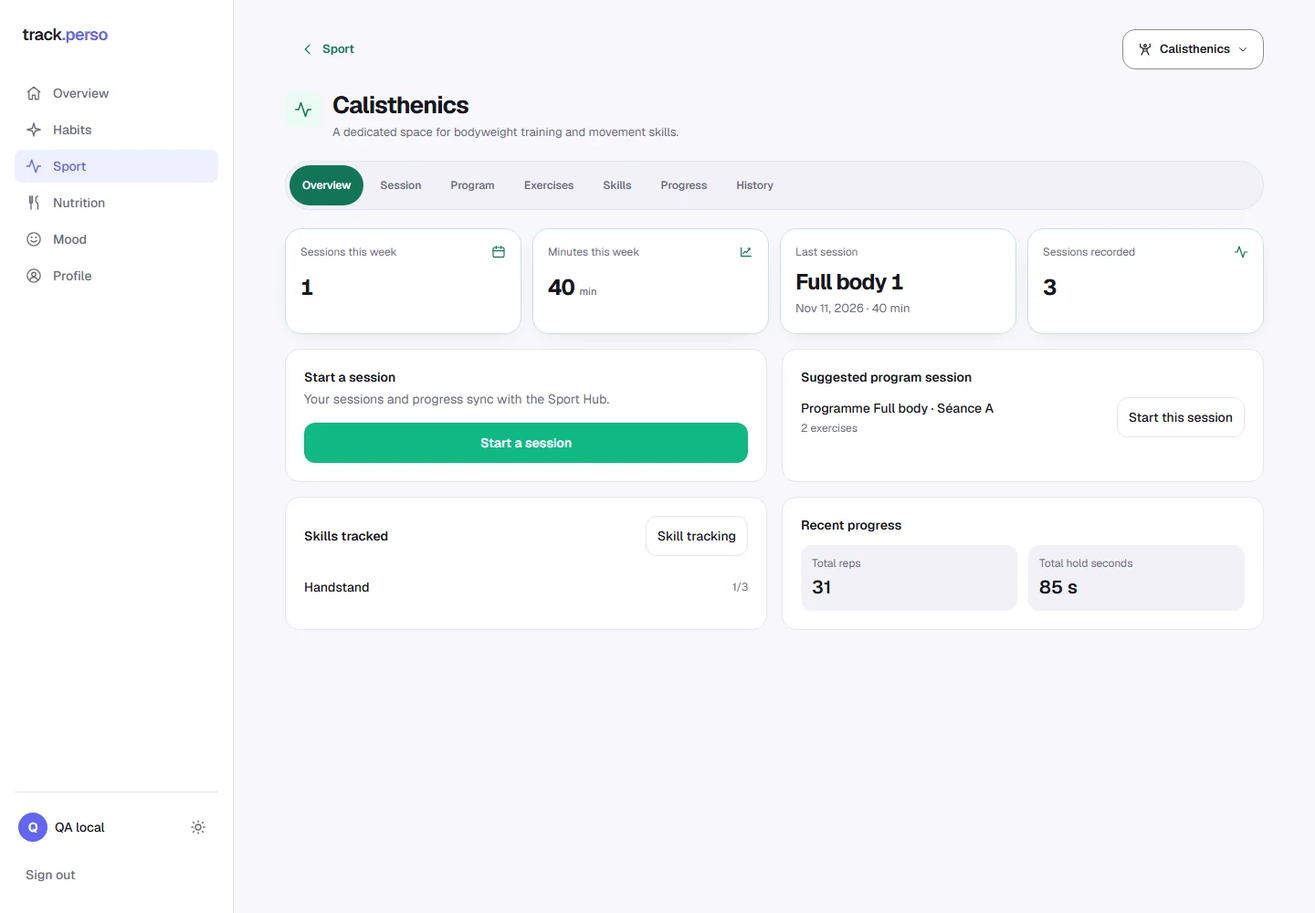
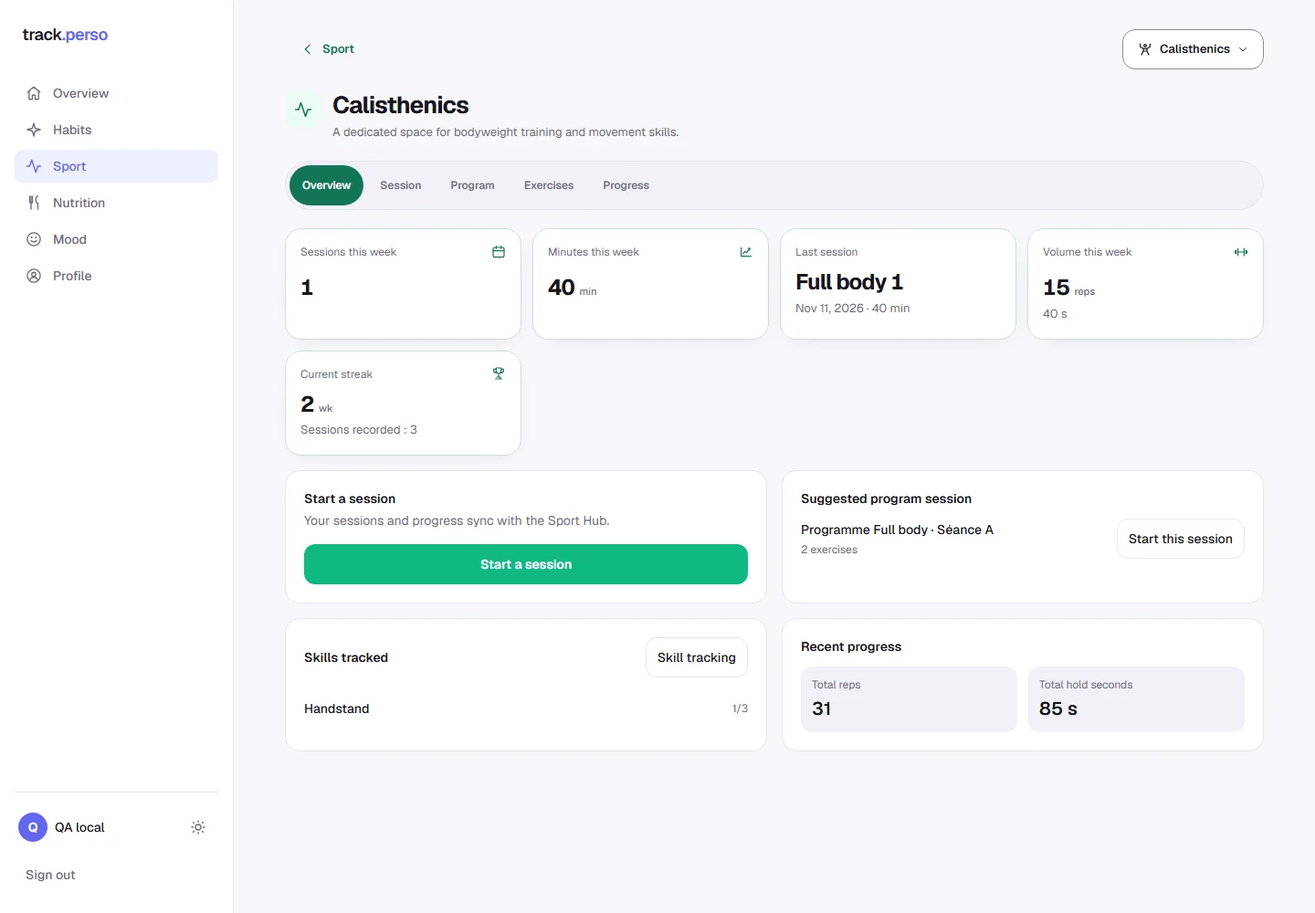
feat: rework Calisthenics around five sections
Calisthenics now mirrors Running: Vue d'ensemble / Séance / Programme /
Exercices / Progression. The history joins the session tab and the
skills join progress, instead of carrying seven tabs on a phone.

The overview gains this week's volume and the streak of consecutive
weeks with a session; repetitions and hold seconds stay separate
measures and are never added together. The exercise library is grouped
by category with a count per group and headings tied to their section.

Covers the new figures with unit tests, including a quiet current week
that keeps the streak earned up to last week.

diff --git a/src/components/sport/calisthenics-workspace.tsx b/src/components/sport/calisthenics-workspace.tsx
@@ -5,7 +5,7 @@ import { SportButton, SportEmptyState, SportLink } from "@/components/sport/ui/s
 import { SportModuleShell, SportModuleTabs, SportStatusMessage } from "@/components/sport/ui/sport-module-shell";
 import { SportStatCard } from "@/components/sport/ui/sport-stat-card";
 
-import { useEffect, useMemo, useState, useTransition } from "react";
+import { useEffect, useId, useMemo, useState, useTransition } from "react";
 import { useRouter } from "next/navigation";
 import { useLanguage, useT } from "@/components/language-provider";
 import { WeeklyBarChart } from "@/components/charts/weekly-bar-chart";
@@ -32,7 +32,7 @@ import type {
   CalisthenicsSet,
 } from "@/types/database";
 
-type Section = "overview" | "session" | "program" | "exercises" | "skills" | "progress" | "history";
+type Section = "overview" | "session" | "program" | "exercises" | "progress";
 type DraftSet = { key: string; reps: number | null; holdSeconds: number | null; mode: "reps" | "hold"; assistanceKg: number | null; addedWeightKg: number | null; variation: string; notes: string };
 type DraftItem = { key: string; exerciseId: string; sets: DraftSet[] };
 type ProgramForm = {
@@ -55,7 +55,7 @@ type ExerciseForm = {
 };
 
 const DRAFT_KEY = "track-perso:calisthenics-session-v1";
-const SECTIONS: Section[] = ["overview", "session", "program", "exercises", "skills", "progress", "history"];
+const SECTIONS: Section[] = ["overview", "session", "program", "exercises", "progress"];
 const CATEGORIES: Category[] = ["push", "pull", "legs", "core", "skills", "mobility"];
 const LEVELS: Level[] = ["beginner", "intermediate", "advanced"];
 const MEASUREMENTS: Measurement[] = ["reps", "hold", "mixed"];
@@ -99,7 +99,7 @@ export function CalisthenicsWorkspace({ data, initialSessionId }: { data: Calist
   const t = useT();
   const { language } = useLanguage();
   const router = useRouter();
-  const [section, setSection] = useState<Section>(initialSessionId ? "history" : "overview");
+  const [section, setSection] = useState<Section>(initialSessionId ? "session" : "overview");
   const [busy, startTransition] = useTransition();
   const [feedback, setFeedback] = useState("");
   const [draftReady, setDraftReady] = useState(false);
@@ -125,6 +125,7 @@ export function CalisthenicsWorkspace({ data, initialSessionId }: { data: Calist
   const [timerEnd, setTimerEnd] = useState<number | null>(null);
 
   const c = (key: string) => t(`sport.calisthenicsUi.${key}`);
+  const sectionId = useId();
   const exercisesById = useMemo(() => new Map(data.exercises.map((exercise) => [exercise.id, exercise])), [data.exercises]);
   const setsByWorkout = useMemo(() => {
     const grouped = new Map<string, CalisthenicsSet[]>();
@@ -336,7 +337,8 @@ export function CalisthenicsWorkspace({ data, initialSessionId }: { data: Calist
         <SportStatCard label={c("weekSessions")} value={overviewStats.sessionsThisWeek} icon="calendar" />
         <SportStatCard label={c("weekMinutes")} value={overviewStats.minutesThisWeek} unit={c("minutesLabel")} icon="stats" />
         <SportStatCard label={c("lastSession")} value={recentWorkout ? recentWorkout.activity : "—"} detail={recentWorkout ? `${formatDate(recentWorkout.workout_date, language)} · ${recentWorkout.duration_minutes} ${c("minutesLabel")}` : c("noLastSession")} />
-        <SportStatCard label={c("totalSessions")} value={data.workouts.length} icon="activity" />
+        <SportStatCard label={c("weekVolume")} value={overviewStats.weekVolume.reps} unit={c("repsLabel")} detail={overviewStats.weekVolume.holdSeconds > 0 ? `${overviewStats.weekVolume.holdSeconds} ${c("secondsLabel")}` : undefined} icon="strength" />
+        <SportStatCard label={c("weekStreak")} value={overviewStats.weekStreak} unit={c("weeksLabel")} detail={c("totalSessions") + " : " + data.workouts.length} icon="trophy" />
       </div>}
       <div className="grid gap-4 lg:grid-cols-2">
         <Card className="flex flex-col">
@@ -349,7 +351,7 @@ export function CalisthenicsWorkspace({ data, initialSessionId }: { data: Calist
         </Card>
       </div>
       <div className="grid gap-4 lg:grid-cols-2">
-        <Card><div className="flex items-center justify-between gap-3"><h2 className="text-sm font-semibold">{c("activeSkills")}</h2><button className={secondaryButtonClass} type="button" onClick={() => setSection("skills")}>{c("skillsTitle")}</button></div>
+        <Card><div className="flex items-center justify-between gap-3"><h2 className="text-sm font-semibold">{c("activeSkills")}</h2><button className={secondaryButtonClass} type="button" onClick={() => setSection("progress")}>{c("skillsTitle")}</button></div>
           {data.skills.length ? <ul className="mt-3 divide-y divide-border">{data.skills.slice(0, 4).map((skill) => <li key={skill.id} className="flex items-center justify-between gap-3 py-3"><span className="truncate text-sm font-medium">{skill.name}</span><span className="text-xs text-foreground-muted">{skill.current_step}/{skill.target_step}</span></li>)}</ul> : <p className="mt-3 text-sm text-foreground-muted">{c("noSkills")}</p>}</Card>
         <Card><h2 className="text-sm font-semibold">{c("recentProgress")}</h2><div className="mt-3 grid grid-cols-2 gap-3"><div className="rounded-xl bg-surface-muted p-3"><p className="text-xs text-foreground-muted">{c("totalReps")}</p><p className="mt-1 text-xl font-semibold">{recentReps}</p></div><div className="rounded-xl bg-surface-muted p-3"><p className="text-xs text-foreground-muted">{c("totalHold")}</p><p className="mt-1 text-xl font-semibold">{recentHold} {c("secondsLabel")}</p></div></div></Card>
       </div>
@@ -398,7 +400,7 @@ export function CalisthenicsWorkspace({ data, initialSessionId }: { data: Calist
         <div className="grid gap-3 sm:grid-cols-3"><Field label={c("search")}><input className={controlClass} value={exerciseSearch} onChange={(event) => setExerciseSearch(event.target.value)} /></Field><Field label={c("category")}><select className={controlClass} value={categoryFilter} onChange={(event) => setCategoryFilter(event.target.value)}><option value="all">{c("all")}</option>{CATEGORIES.map((item) => <option key={item} value={item}>{c(`categories.${item}`)}</option>)}</select></Field><Field label={c("level")}><select className={controlClass} value={levelFilter} onChange={(event) => setLevelFilter(event.target.value)}><option value="all">{c("all")}</option>{LEVELS.map((item) => <option key={item} value={item}>{c(`levels.${item}`)}</option>)}</select></Field></div>
       </Card>
       {exerciseForm && <Card><form className="space-y-4" onSubmit={(event) => { event.preventDefault(); runMutation(() => saveCalisthenicsExercise({ ...exerciseForm, descriptions: exerciseForm.descriptions, instructions: exerciseForm.instructions }), () => setExerciseForm(null)); }}><div className="flex items-center justify-between gap-3"><h3 className="text-base font-semibold">{exerciseForm.id ? c("editExercise") : c("newExercise")}</h3><button type="button" className={secondaryButtonClass} onClick={() => setExerciseForm(null)}>{c("remove")}</button></div><div className="grid gap-3 sm:grid-cols-3">{(["fr", "en", "ar"] as const).map((lang) => <Field key={lang} label={c(`name${lang.toUpperCase()}`)}><input required maxLength={80} className={controlClass} value={exerciseForm.names[lang]} onChange={(event) => setExerciseForm((form) => form ? ({ ...form, names: { ...form.names, [lang]: event.target.value } }) : null)} /></Field>)}</div><div className="grid gap-3 sm:grid-cols-3">{(["fr", "en", "ar"] as const).map((lang) => <Field key={lang} label={c(`description${lang.toUpperCase()}`)}><textarea maxLength={500} className={`${controlClass} min-h-20 py-3`} value={exerciseForm.descriptions[lang]} onChange={(event) => setExerciseForm((form) => form ? ({ ...form, descriptions: { ...form.descriptions, [lang]: event.target.value } }) : null)} /></Field>)}</div><div className="grid gap-3 sm:grid-cols-3">{(["fr", "en", "ar"] as const).map((lang) => <Field key={lang} label={c(`instructions${lang.toUpperCase()}`)}><textarea maxLength={500} className={`${controlClass} min-h-20 py-3`} value={exerciseForm.instructions[lang]} onChange={(event) => setExerciseForm((form) => form ? ({ ...form, instructions: { ...form.instructions, [lang]: event.target.value } }) : null)} /></Field>)}</div><div className="grid gap-3 sm:grid-cols-2 lg:grid-cols-4"><Field label={c("category")}><select className={controlClass} value={exerciseForm.category} onChange={(event) => setExerciseForm((form) => form ? ({ ...form, category: event.target.value as Category }) : null)}>{CATEGORIES.map((item) => <option key={item} value={item}>{c(`categories.${item}`)}</option>)}</select></Field><Field label={c("level")}><select className={controlClass} value={exerciseForm.level} onChange={(event) => setExerciseForm((form) => form ? ({ ...form, level: event.target.value as Level }) : null)}>{LEVELS.map((item) => <option key={item} value={item}>{c(`levels.${item}`)}</option>)}</select></Field><Field label={c("measurement")}><select className={controlClass} value={exerciseForm.measurementType} onChange={(event) => setExerciseForm((form) => form ? ({ ...form, measurementType: event.target.value as Measurement }) : null)}>{MEASUREMENTS.map((item) => <option key={item} value={item}>{c(`measurements.${item}`)}</option>)}</select></Field><Field label={c("primaryMuscle")}><input required maxLength={50} className={controlClass} value={exerciseForm.primaryMuscle} onChange={(event) => setExerciseForm((form) => form ? ({ ...form, primaryMuscle: event.target.value }) : null)} /></Field></div><button type="submit" className={buttonClass} disabled={busy}>{c("saveExercise")}</button></form></Card>}
-      {filteredExercises.length ? <div className="grid gap-3 sm:grid-cols-2 xl:grid-cols-3">{filteredExercises.map((exercise) => <Card key={exercise.id} className="flex flex-col"><div className="flex items-start justify-between gap-2"><div className="min-w-0"><div className="flex items-center gap-2"><h3 className="min-w-0 truncate text-sm font-semibold">{localeName(exercise, language)}</h3><ExerciseGuideButton name={localeName(exercise, language)} discipline="calisthenics" exerciseId={exercise.id} /></div><p className="mt-1 text-xs text-foreground-muted">{c(`categories.${exercise.category}`)} · {c(`levels.${exercise.level}`)} · {c(`measurements.${exercise.measurement_type}`)} · {muscleLabel(exercise.primary_muscle, t)}</p></div><span className="shrink-0 rounded-full bg-surface-muted px-2 py-1 text-[10px] text-foreground-muted">{exercise.user_id ? c("newExercise") : "Track Perso"}</span></div><p className="mt-3 text-xs leading-relaxed text-foreground-muted">{localizedExerciseText(exercise, language, "description") || fallbackDescription(exercise.category, language)}</p><p className="mt-2 flex-1 text-xs leading-relaxed text-foreground-muted">{localizedExerciseText(exercise, language, "instructions") || fallbackTechnique(exercise.category, language)}</p><div className="mt-4 flex flex-wrap gap-2"><button type="button" className={buttonClass} onClick={() => addExerciseToDraft(exercise.id)}>{c("addExercise")}</button>{exercise.user_id && <><button type="button" className={secondaryButtonClass} onClick={() => setExerciseForm({ id: exercise.id, exerciseKey: exercise.exercise_key, category: exercise.category, primaryMuscle: exercise.primary_muscle, level: exercise.level, measurementType: exercise.measurement_type, names: { fr: exercise.name_fr, en: exercise.name_en, ar: exercise.name_ar }, descriptions: { fr: exercise.description_fr, en: exercise.description_en, ar: exercise.description_ar }, instructions: { fr: exercise.instructions_fr, en: exercise.instructions_en, ar: exercise.instructions_ar } })}>{c("editExercise")}</button><button type="button" className={secondaryButtonClass} onClick={() => window.confirm(c("deleteConfirm")) && runMutation(() => deleteCalisthenicsExercise(exercise.id))}>{c("remove")}</button></>}</div></Card>)}</div> : <Card><p className="text-sm text-foreground-muted">{c("noExercises")}</p></Card>}
+      {filteredExercises.length ? <div className="space-y-5">{CATEGORIES.filter((category) => filteredExercises.some((exercise) => exercise.category === category)).map((category) => <section key={category} aria-labelledby={`${sectionId}-${category}`}><h3 id={`${sectionId}-${category}`} className="sport-group-heading">{c(`categories.${category}`)}<span>{filteredExercises.filter((exercise) => exercise.category === category).length}</span></h3><div className="grid gap-3 sm:grid-cols-2 xl:grid-cols-3">{filteredExercises.filter((exercise) => exercise.category === category).map((exercise) => <Card key={exercise.id} className="flex flex-col"><div className="flex items-start justify-between gap-2"><div className="min-w-0"><div className="flex items-center gap-2"><h3 className="min-w-0 truncate text-sm font-semibold">{localeName(exercise, language)}</h3><ExerciseGuideButton name={localeName(exercise, language)} discipline="calisthenics" exerciseId={exercise.id} /></div><p className="mt-1 text-xs text-foreground-muted">{c(`categories.${exercise.category}`)} · {c(`levels.${exercise.level}`)} · {c(`measurements.${exercise.measurement_type}`)} · {muscleLabel(exercise.primary_muscle, t)}</p></div><span className="shrink-0 rounded-full bg-surface-muted px-2 py-1 text-[10px] text-foreground-muted">{exercise.user_id ? c("newExercise") : "Track Perso"}</span></div><p className="mt-3 text-xs leading-relaxed text-foreground-muted">{localizedExerciseText(exercise, language, "description") || fallbackDescription(exercise.category, language)}</p><p className="mt-2 flex-1 text-xs leading-relaxed text-foreground-muted">{localizedExerciseText(exercise, language, "instructions") || fallbackTechnique(exercise.category, language)}</p><div className="mt-4 flex flex-wrap gap-2"><button type="button" className={buttonClass} onClick={() => addExerciseToDraft(exercise.id)}>{c("addExercise")}</button>{exercise.user_id && <><button type="button" className={secondaryButtonClass} onClick={() => setExerciseForm({ id: exercise.id, exerciseKey: exercise.exercise_key, category: exercise.category, primaryMuscle: exercise.primary_muscle, level: exercise.level, measurementType: exercise.measurement_type, names: { fr: exercise.name_fr, en: exercise.name_en, ar: exercise.name_ar }, descriptions: { fr: exercise.description_fr, en: exercise.description_en, ar: exercise.description_ar }, instructions: { fr: exercise.instructions_fr, en: exercise.instructions_en, ar: exercise.instructions_ar } })}>{c("editExercise")}</button><button type="button" className={secondaryButtonClass} onClick={() => window.confirm(c("deleteConfirm")) && runMutation(() => deleteCalisthenicsExercise(exercise.id))}>{c("remove")}</button></>}</div></Card>)}</div></section>)}</div> : <Card><p className="text-sm text-foreground-muted">{c("noExercises")}</p></Card>}
     </div>}
 
     {section === "program" && <div className="space-y-4">
@@ -413,7 +415,7 @@ export function CalisthenicsWorkspace({ data, initialSessionId }: { data: Calist
       {data.programs.length ? <div className="grid gap-3 lg:grid-cols-2">{data.programs.map((program) => <Card key={program.id}><div className="flex items-start justify-between gap-2"><div><h3 className="text-base font-semibold">{program.name}</h3>{program.notes && <p className="mt-1 text-xs text-foreground-muted">{program.notes}</p>}</div><div className="flex gap-1"><button className={secondaryButtonClass} type="button" onClick={() => setProgramForm(programToForm(program))}>{c("editProgram")}</button><button className={secondaryButtonClass} type="button" onClick={() => window.confirm(c("deleteConfirm")) && runMutation(() => deleteCalisthenicsProgram(program.id))}>{c("remove")}</button></div></div><div className="mt-3 space-y-2">{program.sessions.map((session) => <div key={session.id} className="flex items-center justify-between gap-3 rounded-xl bg-surface-muted p-3"><div className="min-w-0"><p className="truncate text-sm font-medium">{session.name}</p><p className="text-xs text-foreground-muted">{session.exercises.length} {c("sections.exercises").toLowerCase()}</p></div><button type="button" className={buttonClass} onClick={() => startProgramSession(session)}>{c("startFromProgram")}</button></div>)}</div></Card>)}</div> : <Card><p className="text-sm text-foreground-muted">{c("noPrograms")}</p></Card>}
     </div>}
 
-    {section === "skills" && <div className="space-y-4">
+    {section === "progress" && <div className="space-y-4">
       <Card><div className="flex flex-wrap items-center justify-between gap-3"><div><h2 className="text-lg font-semibold">{c("skillsTitle")}</h2><p className="mt-1 text-xs text-foreground-muted">{c("progressionDisclaimer")}</p></div><button type="button" className={buttonClass} onClick={() => setSkillForm(blankSkill())}>{c("newSkill")}</button></div><div className="mt-3 flex flex-wrap gap-2">{Object.entries(SKILL_PRESETS).map(([key, preset]) => <button type="button" key={key} className={secondaryButtonClass} onClick={() => setSkillForm({ ...blankSkill(), name: preset.name[language], skillKey: key, measurementType: preset.measure, progressionSteps: [...preset.steps[language]] })}>{preset.name[language]}</button>)}</div></Card>
       {skillForm && <Card><form className="space-y-4" onSubmit={(event) => { event.preventDefault(); runMutation(() => saveCalisthenicsSkill({ ...skillForm, startedOn: skillForm.startedOn || null }), () => setSkillForm(null)); }}><div className="flex items-center justify-between gap-3"><h3 className="text-base font-semibold">{skillForm.id ? c("saveSkill") : c("newSkill")}</h3><button type="button" className={secondaryButtonClass} onClick={() => setSkillForm(null)}>{c("remove")}</button></div><div className="grid gap-3 sm:grid-cols-2"><Field label={c("skillName")}><input required maxLength={80} className={controlClass} value={skillForm.name} onChange={(event) => setSkillForm((form) => form ? ({ ...form, name: event.target.value }) : null)} /></Field><Field label={c("measurement")}><select className={controlClass} value={skillForm.measurementType} onChange={(event) => setSkillForm((form) => form ? ({ ...form, measurementType: event.target.value as "reps" | "hold" }) : null)}><option value="hold">{c("holdSeconds")}</option><option value="reps">{c("reps")}</option></select></Field></div><div><p className="mb-2 text-xs font-medium text-foreground-muted">{c("progressionSteps")}</p><div className="space-y-2">{skillForm.progressionSteps.map((step, index) => <div key={index} className="flex gap-2"><input required maxLength={80} className={controlClass} value={step} onChange={(event) => setSkillForm((form) => form ? ({ ...form, progressionSteps: form.progressionSteps.map((value, row) => row === index ? event.target.value : value) }) : null)} /><button type="button" className={secondaryButtonClass} onClick={() => setSkillForm((form) => form ? ({ ...form, progressionSteps: form.progressionSteps.filter((_, row) => row !== index), currentStep: Math.min(form.currentStep, form.progressionSteps.length - 2), targetStep: Math.min(form.targetStep, form.progressionSteps.length - 1) }) : null)}>{c("remove")}</button></div>)}</div><button type="button" className={`${secondaryButtonClass} mt-2`} onClick={() => setSkillForm((form) => form ? ({ ...form, progressionSteps: [...form.progressionSteps, ""], targetStep: Math.min(form.progressionSteps.length + 1, 30) }) : null)}>＋ {c("addStep")}</button></div><div className="grid gap-3 sm:grid-cols-3"><Field label={c("currentStep")}><select className={controlClass} value={skillForm.currentStep} onChange={(event) => setSkillForm((form) => form ? ({ ...form, currentStep: Number(event.target.value) }) : null)}><option value={0}>—</option>{skillForm.progressionSteps.map((step, index) => <option key={index} value={index + 1}>{step}</option>)}</select></Field><Field label={c("targetStep")}><select className={controlClass} value={skillForm.targetStep} onChange={(event) => setSkillForm((form) => form ? ({ ...form, targetStep: Number(event.target.value) }) : null)}>{skillForm.progressionSteps.map((step, index) => <option key={index} value={index + 1}>{step}</option>)}</select></Field><Field label={c("startedOn")}><input type="date" className={controlClass} value={skillForm.startedOn} onChange={(event) => setSkillForm((form) => form ? ({ ...form, startedOn: event.target.value }) : null)} /></Field></div><Field label={c("skillNotes")}><textarea className={`${controlClass} min-h-20 py-3`} maxLength={2000} value={skillForm.notes} onChange={(event) => setSkillForm((form) => form ? ({ ...form, notes: event.target.value }) : null)} /></Field><button type="submit" className={buttonClass} disabled={busy}>{c("saveSkill")}</button></form></Card>}
       {data.skills.length ? <div className="grid gap-3 lg:grid-cols-2">{data.skills.map((skill) => { const currentLabel = skill.current_step > 0 ? skill.progression_steps[skill.current_step - 1] : c("notStarted"); const targetLabel = skill.progression_steps[skill.target_step - 1]; const percent = Math.min(100, Math.round((skill.current_step / skill.target_step) * 100)); return <Card key={skill.id}><div className="flex items-start justify-between gap-2"><div><h3 className="text-base font-semibold">{skill.name}</h3><p className="mt-1 text-xs text-foreground-muted">{currentLabel} / {targetLabel} · {skill.current_step}/{skill.target_step}</p></div><div className="flex gap-1"><button className={secondaryButtonClass} type="button" onClick={() => setSkillForm({ id: skill.id, name: skill.name, skillKey: skill.skill_key, currentStep: skill.current_step, targetStep: skill.target_step, progressionSteps: [...skill.progression_steps], measurementType: skill.measurement_type, startedOn: skill.started_on ?? "", notes: skill.notes })}>{c("editProgram")}</button><button className={secondaryButtonClass} type="button" onClick={() => window.confirm(c("deleteConfirm")) && runMutation(() => deleteCalisthenicsSkill(skill.id))}>{c("remove")}</button></div></div><div className="mt-3 h-2 overflow-hidden rounded-full bg-surface-muted" role="progressbar" aria-valuemin={0} aria-valuemax={skill.target_step} aria-valuenow={skill.current_step} aria-label={c("currentStep")}><div className="h-full rounded-full bg-sport transition-[width]" style={{ width: `${percent}%` }} /></div>{skill.started_on && <p className="mt-2 text-xs text-foreground-muted">{formatDate(skill.started_on, language)}</p>}{skill.notes && <p className="mt-2 whitespace-pre-wrap text-sm text-foreground-muted">{skill.notes}</p>}<div className="mt-3 flex flex-wrap items-center justify-between gap-2"><p className="text-xs text-foreground-muted">{c("bestSet")}: {bestSkillResults.get(skill.id) ?? 0} {skill.measurement_type === "hold" ? c("secondsLabel") : c("reps")}</p><span className="text-xs text-foreground-muted">{skill.logs.length} {c("historyTitle").toLowerCase()}</span></div>{skill.logs.length > 0 && <ul className="mt-3 space-y-1">{skill.logs.slice(0, 3).map((log) => <li key={log.id} className="flex justify-between gap-2 text-xs text-foreground-muted"><span className="truncate">{formatDate(log.logged_on, language)} · {log.step_name}</span><span className="shrink-0">{log.hold_seconds !== null ? `${log.hold_seconds} ${c("secondsLabel")}` : `${log.reps} ${c("reps")}`}</span></li>)}</ul>}<SkillLogger skill={skill} label={c("logResult")} dateLabel={c("logDate")} resultLabel={skill.measurement_type === "hold" ? c("resultHold") : c("resultReps")} notesLabel={c("skillNotes")} submitLabel={c("logResult")} date={date} busy={busy} onSave={(payload) => runMutation(() => logCalisthenicsSkill(payload))} /></Card>; })}</div> : <Card><p className="text-sm text-foreground-muted">{c("noSkills")}</p></Card>}
@@ -421,7 +423,7 @@ export function CalisthenicsWorkspace({ data, initialSessionId }: { data: Calist
 
     {section === "progress" && <div className="space-y-4"><Card><div className="flex flex-wrap items-center justify-between gap-3"><div><h2 className="text-lg font-semibold">{c("progressTitle")}</h2><p className="mt-1 text-xs text-foreground-muted">{c("historyTitle")}</p></div><Field label={c("period")} className="w-40"><select className={controlClass} value={period} onChange={(event) => setPeriod(event.target.value as typeof period)}><option value="30">{c("last30")}</option><option value="90">{c("last90")}</option><option value="all">{c("all")}</option></select></Field></div><div className="mt-4 grid grid-cols-2 gap-3"><div className="rounded-xl bg-surface-muted p-4"><p className="text-xs text-foreground-muted">{c("totalReps")}</p><p className="mt-1 text-2xl font-semibold tabular-nums">{totalReps}</p></div><div className="rounded-xl bg-surface-muted p-4"><p className="text-xs text-foreground-muted">{c("totalHold")}</p><p className="mt-1 text-2xl font-semibold tabular-nums">{totalHold} {c("secondsLabel")}</p></div></div></Card><Card><h3 className="mb-2 text-sm font-semibold">{c("weekMinutes")}</h3><WeeklyBarChart data={weeklyChartData(data.workouts, language)} color="var(--sport)" unit={c("minutesLabel")} /></Card><div className="grid gap-4 lg:grid-cols-2"><Card><h3 className="text-sm font-semibold">{c("reps")}</h3>{repsMap.size ? <ul className="mt-2 divide-y divide-border">{Array.from(repsMap.values()).sort((a, b) => b.total - a.total).map((record) => <li key={record.name} className="flex items-center justify-between gap-3 py-3"><span className="truncate text-sm">{record.name}</span><span className="shrink-0 text-xs tabular-nums text-foreground-muted">{record.total} · {c("bestSet")} {record.best}</span></li>)}</ul> : <p className="mt-3 text-sm text-foreground-muted">{c("noProgress")}</p>}</Card><Card><h3 className="text-sm font-semibold">{c("holdSeconds")}</h3>{holdsMap.size ? <ul className="mt-2 divide-y divide-border">{Array.from(holdsMap.values()).sort((a, b) => b.total - a.total).map((record) => <li key={record.name} className="flex items-center justify-between gap-3 py-3"><span className="truncate text-sm">{record.name}</span><span className="shrink-0 text-xs tabular-nums text-foreground-muted">{record.total} {c("secondsLabel")} · {c("bestSet")} {record.best} {c("secondsLabel")}</span></li>)}</ul> : <p className="mt-3 text-sm text-foreground-muted">{c("noProgress")}</p>}</Card></div><Card><h3 className="text-sm font-semibold">{c("activeSkills")}</h3>{data.skills.length ? <div className="mt-3 grid gap-3 sm:grid-cols-2">{data.skills.map((skill) => <div key={skill.id} className="rounded-xl bg-surface-muted p-3"><div className="flex justify-between gap-2"><span className="truncate text-sm font-medium">{skill.name}</span><span className="text-xs tabular-nums text-foreground-muted">{skill.current_step}/{skill.target_step}</span></div><div className="mt-2 h-1.5 rounded-full bg-background"><div className="h-full rounded-full bg-sport" style={{ width: `${Math.min(100, (skill.current_step / skill.target_step) * 100)}%` }} /></div></div>)}</div> : <p className="mt-3 text-sm text-foreground-muted">{c("noSkills")}</p>}</Card></div>}
 
-    {section === "history" && <div className="space-y-4"><Card><div className="flex flex-wrap items-center justify-between gap-3"><h2 className="text-lg font-semibold">{c("historyTitle")}</h2><div className="grid w-full gap-2 sm:w-auto sm:grid-cols-2 xl:grid-cols-4"><Field label={c("date")}><input type="date" className={controlClass} value={historyDate} onChange={(event) => setHistoryDate(event.target.value)} /></Field><Field label={c("search")}><input className={controlClass} value={historySearch} onChange={(event) => setHistorySearch(event.target.value)} /></Field><Field label={c("filterExercise")}><select className={controlClass} value={historyExercise} onChange={(event) => setHistoryExercise(event.target.value)}><option value="all">{c("allExercises")}</option>{data.exercises.map((exercise) => <option key={exercise.id} value={exercise.id}>{localeName(exercise, language)}</option>)}</select></Field><Field label={c("programTitle")}><select className={controlClass} value={historyProgram} onChange={(event) => setHistoryProgram(event.target.value)}><option value="all">{c("allPrograms")}</option>{data.programs.map((program) => <option key={program.id} value={program.id}>{program.name}</option>)}</select></Field></div></div></Card>{filteredWorkouts.length ? filteredWorkouts.map((workout) => { const workoutSets = setsByWorkout.get(workout.id) ?? []; return <details key={workout.id} open={initialSessionId === workout.id} className="rounded-2xl border border-border bg-surface"><summary className="flex min-h-16 cursor-pointer list-none items-center justify-between gap-3 p-4"><span className="min-w-0"><span className="block truncate text-sm font-semibold">{workout.activity}</span><span className="mt-1 block text-xs text-foreground-muted">{formatDate(workout.workout_date, language)} · {workout.duration_minutes} {c("minutesLabel")} · {workout.intensity}/5</span></span><span className="shrink-0 text-xs text-sport">{workoutSets.length} {c("setsLabel")}</span></summary><div className="border-t border-border p-4"><ul className="space-y-2">{workoutSets.map((set) => { const exercise = set.exercise_id ? exercisesById.get(set.exercise_id) : undefined; return <li key={set.id} className="flex flex-wrap items-center justify-between gap-x-4 gap-y-1 rounded-xl bg-surface-muted p-3 text-xs"><span className="font-medium">{exercise ? localeName(exercise, language) : set.exercise_name} · {c("sets")} {set.set_number}</span><span className="text-foreground-muted">{set.reps !== null ? `${set.reps} ${c("reps")}` : `${set.hold_seconds} ${c("secondsLabel")}`}{set.assistance_kg ? ` · -${set.assistance_kg} kg` : ""}{set.added_weight_kg ? ` · +${set.added_weight_kg} kg` : ""}</span>{(set.variation || set.notes) && <span className="w-full text-foreground-muted">{[set.variation, set.notes].filter(Boolean).join(" · ")}</span>}</li>; })}</ul>{workout.notes && <p className="mt-3 whitespace-pre-wrap text-sm text-foreground-muted">{workout.notes}</p>}<button type="button" className="mt-3 min-h-10 rounded-lg px-3 text-xs font-medium text-danger hover:bg-danger/10" onClick={() => window.confirm(c("deleteConfirm")) && runMutation(() => deleteCalisthenicsWorkout(workout.id))}>{c("remove")}</button></div></details>; }) : <Card><p className="text-sm text-foreground-muted">{c("noHistory")}</p></Card>}</div>}
+    {section === "session" && <div className="space-y-4"><Card><div className="flex flex-wrap items-center justify-between gap-3"><h2 className="text-lg font-semibold">{c("historyTitle")}</h2><div className="grid w-full gap-2 sm:w-auto sm:grid-cols-2 xl:grid-cols-4"><Field label={c("date")}><input type="date" className={controlClass} value={historyDate} onChange={(event) => setHistoryDate(event.target.value)} /></Field><Field label={c("search")}><input className={controlClass} value={historySearch} onChange={(event) => setHistorySearch(event.target.value)} /></Field><Field label={c("filterExercise")}><select className={controlClass} value={historyExercise} onChange={(event) => setHistoryExercise(event.target.value)}><option value="all">{c("allExercises")}</option>{data.exercises.map((exercise) => <option key={exercise.id} value={exercise.id}>{localeName(exercise, language)}</option>)}</select></Field><Field label={c("programTitle")}><select className={controlClass} value={historyProgram} onChange={(event) => setHistoryProgram(event.target.value)}><option value="all">{c("allPrograms")}</option>{data.programs.map((program) => <option key={program.id} value={program.id}>{program.name}</option>)}</select></Field></div></div></Card>{filteredWorkouts.length ? filteredWorkouts.map((workout) => { const workoutSets = setsByWorkout.get(workout.id) ?? []; return <details key={workout.id} open={initialSessionId === workout.id} className="rounded-2xl border border-border bg-surface"><summary className="flex min-h-16 cursor-pointer list-none items-center justify-between gap-3 p-4"><span className="min-w-0"><span className="block truncate text-sm font-semibold">{workout.activity}</span><span className="mt-1 block text-xs text-foreground-muted">{formatDate(workout.workout_date, language)} · {workout.duration_minutes} {c("minutesLabel")} · {workout.intensity}/5</span></span><span className="shrink-0 text-xs text-sport">{workoutSets.length} {c("setsLabel")}</span></summary><div className="border-t border-border p-4"><ul className="space-y-2">{workoutSets.map((set) => { const exercise = set.exercise_id ? exercisesById.get(set.exercise_id) : undefined; return <li key={set.id} className="flex flex-wrap items-center justify-between gap-x-4 gap-y-1 rounded-xl bg-surface-muted p-3 text-xs"><span className="font-medium">{exercise ? localeName(exercise, language) : set.exercise_name} · {c("sets")} {set.set_number}</span><span className="text-foreground-muted">{set.reps !== null ? `${set.reps} ${c("reps")}` : `${set.hold_seconds} ${c("secondsLabel")}`}{set.assistance_kg ? ` · -${set.assistance_kg} kg` : ""}{set.added_weight_kg ? ` · +${set.added_weight_kg} kg` : ""}</span>{(set.variation || set.notes) && <span className="w-full text-foreground-muted">{[set.variation, set.notes].filter(Boolean).join(" · ")}</span>}</li>; })}</ul>{workout.notes && <p className="mt-3 whitespace-pre-wrap text-sm text-foreground-muted">{workout.notes}</p>}<button type="button" className="mt-3 min-h-10 rounded-lg px-3 text-xs font-medium text-danger hover:bg-danger/10" onClick={() => window.confirm(c("deleteConfirm")) && runMutation(() => deleteCalisthenicsWorkout(workout.id))}>{c("remove")}</button></div></details>; }) : <Card><p className="text-sm text-foreground-muted">{c("noHistory")}</p></Card>}</div>}
   </SportModuleShell>;
 }
 

diff --git a/src/lib/calisthenics/stats.ts b/src/lib/calisthenics/stats.ts
@@ -1,4 +1,4 @@
-import { format, startOfWeek } from "date-fns";
+import { addWeeks, format, startOfWeek } from "date-fns";
 import type { CalisthenicsSet, Workout } from "@/types/database";
 
 export type ExercisePerformance = { key: string; name: string; total: number; best: number };
@@ -8,6 +8,21 @@ export function computeCalisthenicsStats(workouts: Workout[], sets: Calisthenics
   const today = format(now, "yyyy-MM-dd");
   const weekStart = format(startOfWeek(now, { weekStartsOn: 1 }), "yyyy-MM-dd");
   const thisWeek = workouts.filter((workout) => workout.workout_date >= weekStart && workout.workout_date <= today);
+  const thisWeekIds = new Set(thisWeek.map((workout) => workout.id));
+  // Volume stays split: repetitions and seconds are not added together.
+  const weekVolume = sets.reduce((totals, set) => {
+    if (!thisWeekIds.has(set.workout_id)) return totals;
+    return { reps: totals.reps + (set.reps ?? 0), holdSeconds: totals.holdSeconds + (set.hold_seconds ?? 0) };
+  }, { reps: 0, holdSeconds: 0 });
+  // Consecutive weeks with at least one session, counting back from this week.
+  // The current week not having started yet does not break the streak.
+  const weeksWithSession = new Set(workouts.map((workout) => format(startOfWeek(new Date(`${workout.workout_date}T12:00:00`), { weekStartsOn: 1 }), "yyyy-MM-dd")));
+  let weekStreak = 0;
+  for (let offset = weeksWithSession.has(weekStart) ? 0 : 1; offset < 520; offset += 1) {
+    const key = format(addWeeks(startOfWeek(now, { weekStartsOn: 1 }), -offset), "yyyy-MM-dd");
+    if (!weeksWithSession.has(key)) break;
+    weekStreak += 1;
+  }
   const reps = new Map<string, ExercisePerformance>();
   const holds = new Map<string, ExercisePerformance>();
 
@@ -30,6 +45,8 @@ export function computeCalisthenicsStats(workouts: Workout[], sets: Calisthenics
   return {
     sessionsThisWeek: thisWeek.length,
     minutesThisWeek: thisWeek.reduce((total, workout) => total + workout.duration_minutes, 0),
+    weekVolume,
+    weekStreak,
     totalSessions: workouts.length,
     totalMinutes: workouts.reduce((total, workout) => total + workout.duration_minutes, 0),
     reps: Array.from(reps.values()).sort((a, b) => b.total - a.total),

diff --git a/src/lib/i18n/modules/sport.ts b/src/lib/i18n/modules/sport.ts
@@ -49,6 +49,7 @@ export const sportFr = {
   calisthenicsUi: {
     ...calisthenicsExtraFr,
     navigationLabel: "Navigation Calisthenics",
+    weekVolume: "Volume cette semaine", weekStreak: "Série en cours", repsLabel: "reps", weeksLabel: "sem.",
     sections: { overview: "Vue d’ensemble", session: "Séance", program: "Programme", exercises: "Exercices", skills: "Skills", progress: "Progression", history: "Historique" },
     gateTitle: "Calisthenics en préparation",
     gateBody: "Le module sera disponible après validation et exécution manuelle de la migration Supabase. Aucune donnée ne sera écrite avant cette étape.",
@@ -397,6 +398,7 @@ export const sportEn = {
   calisthenicsUi: {
     ...calisthenicsExtraEn,
     navigationLabel: "Calisthenics navigation",
+    weekVolume: "Volume this week", weekStreak: "Current streak", repsLabel: "reps", weeksLabel: "wk",
     sections: { overview: "Overview", session: "Session", program: "Program", exercises: "Exercises", skills: "Skills", progress: "Progress", history: "History" },
     gateTitle: "Calisthenics is being prepared",
     gateBody: "The module will be available after the Supabase migration is reviewed and run manually. No data will be written before then.",
@@ -745,6 +747,7 @@ export const sportAr = {
   calisthenicsUi: {
     ...calisthenicsExtraAr,
     navigationLabel: "تنقل الكاليستنكس",
+    weekVolume: "الحجم هذا الأسبوع", weekStreak: "السلسلة الحالية", repsLabel: "تكرار", weeksLabel: "أسبوع",
     sections: { overview: "نظرة عامة", session: "حصة", program: "برنامج", exercises: "تمارين", skills: "مهارات", progress: "التقدم", history: "السجل" },
     gateTitle: "يجري تجهيز الكاليستنكس",
     gateBody: "سيصبح القسم متاحاً بعد مراجعة ترحيل Supabase وتشغيله يدوياً. لن تُكتب أي بيانات قبل ذلك.",

diff --git a/src/components/sport/ui/sport-ui.css b/src/components/sport/ui/sport-ui.css
@@ -194,3 +194,7 @@
 .sport-ui .sport-stat-grid .sport-stat-card { padding: .75rem; }
 .sport-ui .sport-stat-grid .sport-stat-value { font-size: clamp(1.125rem, 4.3vw, 1.5rem); }
 @media (min-width: 1024px) { .sport-ui .sport-stat-grid { grid-template-columns: repeat(4, minmax(0, 1fr)); gap: .75rem; } .sport-ui .sport-stat-grid .sport-stat-card { padding: 1rem; } }
+
+/* Category headings in the grouped exercise library. */
+.sport-ui .sport-group-heading { display: flex; align-items: center; gap: .5rem; margin-block-end: .75rem; font-size: .8125rem; font-weight: 650; letter-spacing: .04em; text-transform: uppercase; color: var(--sport-ink); }
+.sport-ui .sport-group-heading span { display: grid; place-items: center; min-width: 1.5rem; padding: 0 .375rem; border-radius: 99px; background: var(--surface-muted); color: var(--foreground-muted); font-size: .6875rem; font-weight: 600; letter-spacing: normal; }
